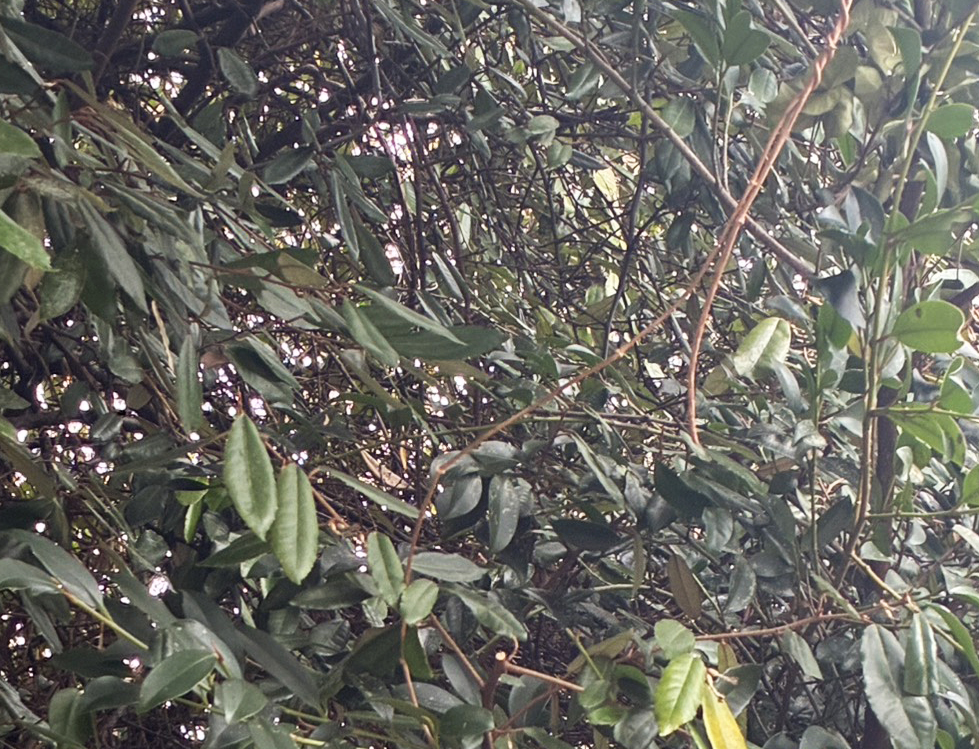
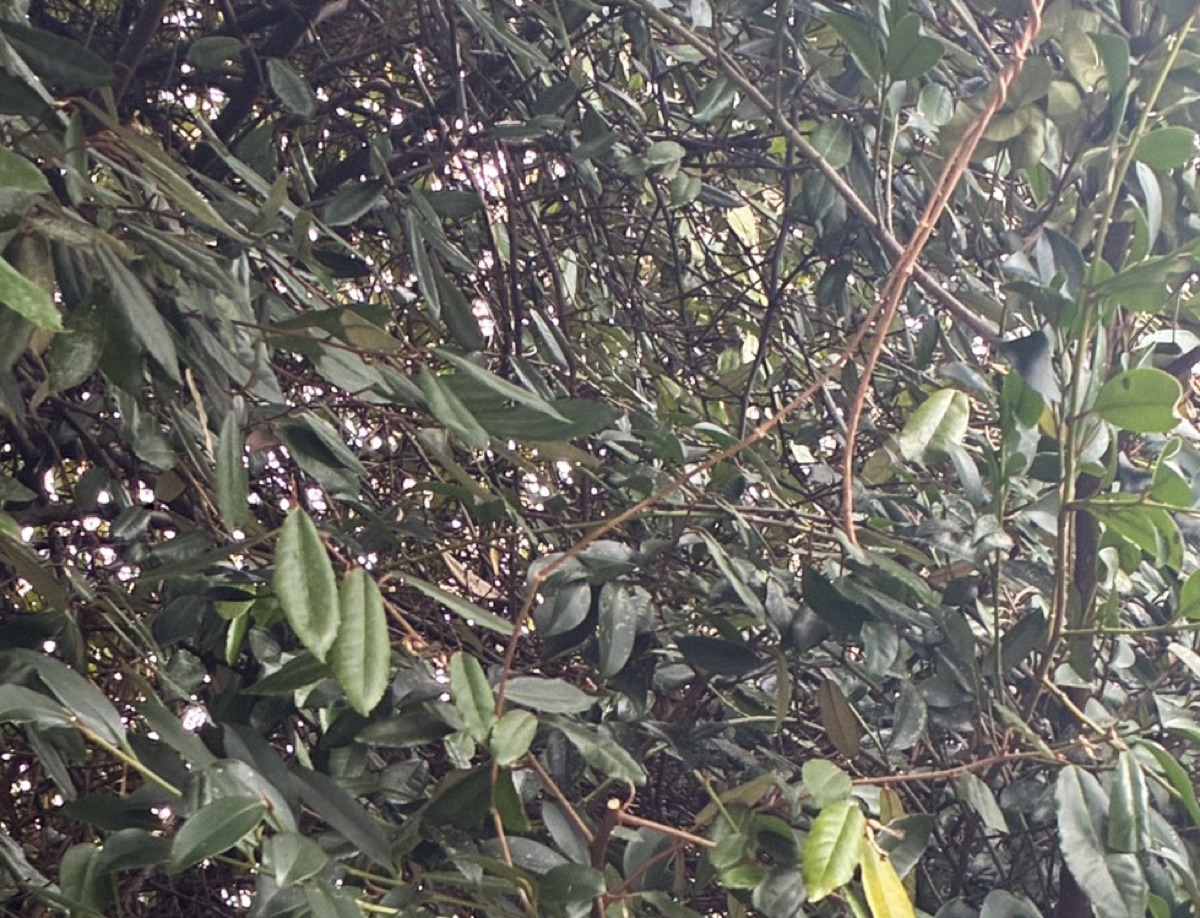
Compress and resize all images for faster page load
- Resize large photos to max 1200px (sagyo: 5712px→1200px)
- Apply JPEG quality 82% compression
- Convert gasketsu.png to gasketsu.jpg (2.5MB→423KB)
- Major savings: sagyo1 4.7MB→340KB, sagyo2 5MB→360KB, hachivacuum 3.8MB→251KB

Changed region(s): [[0.6129, 0.3071, 0.6435, 0.3378], [0.3677, 0.5834, 0.3984, 0.6142]]

diff --git a/js/contents.js b/js/contents.js
@@ -56,7 +56,7 @@ const SITE_CONTENTS = {
     {
       title: 'ガス欠対応',
       desc: 'レギュラーガソリンはもちろん、軽油も携行しておりますので、ガス欠の場合も迅速に対応させていただきます！',
-      img: '画像データ/gasketsu.png',
+      img: '画像データ/gasketsu.jpg',
     },
     {
       title: 'パンク修理・タイヤ交換',
